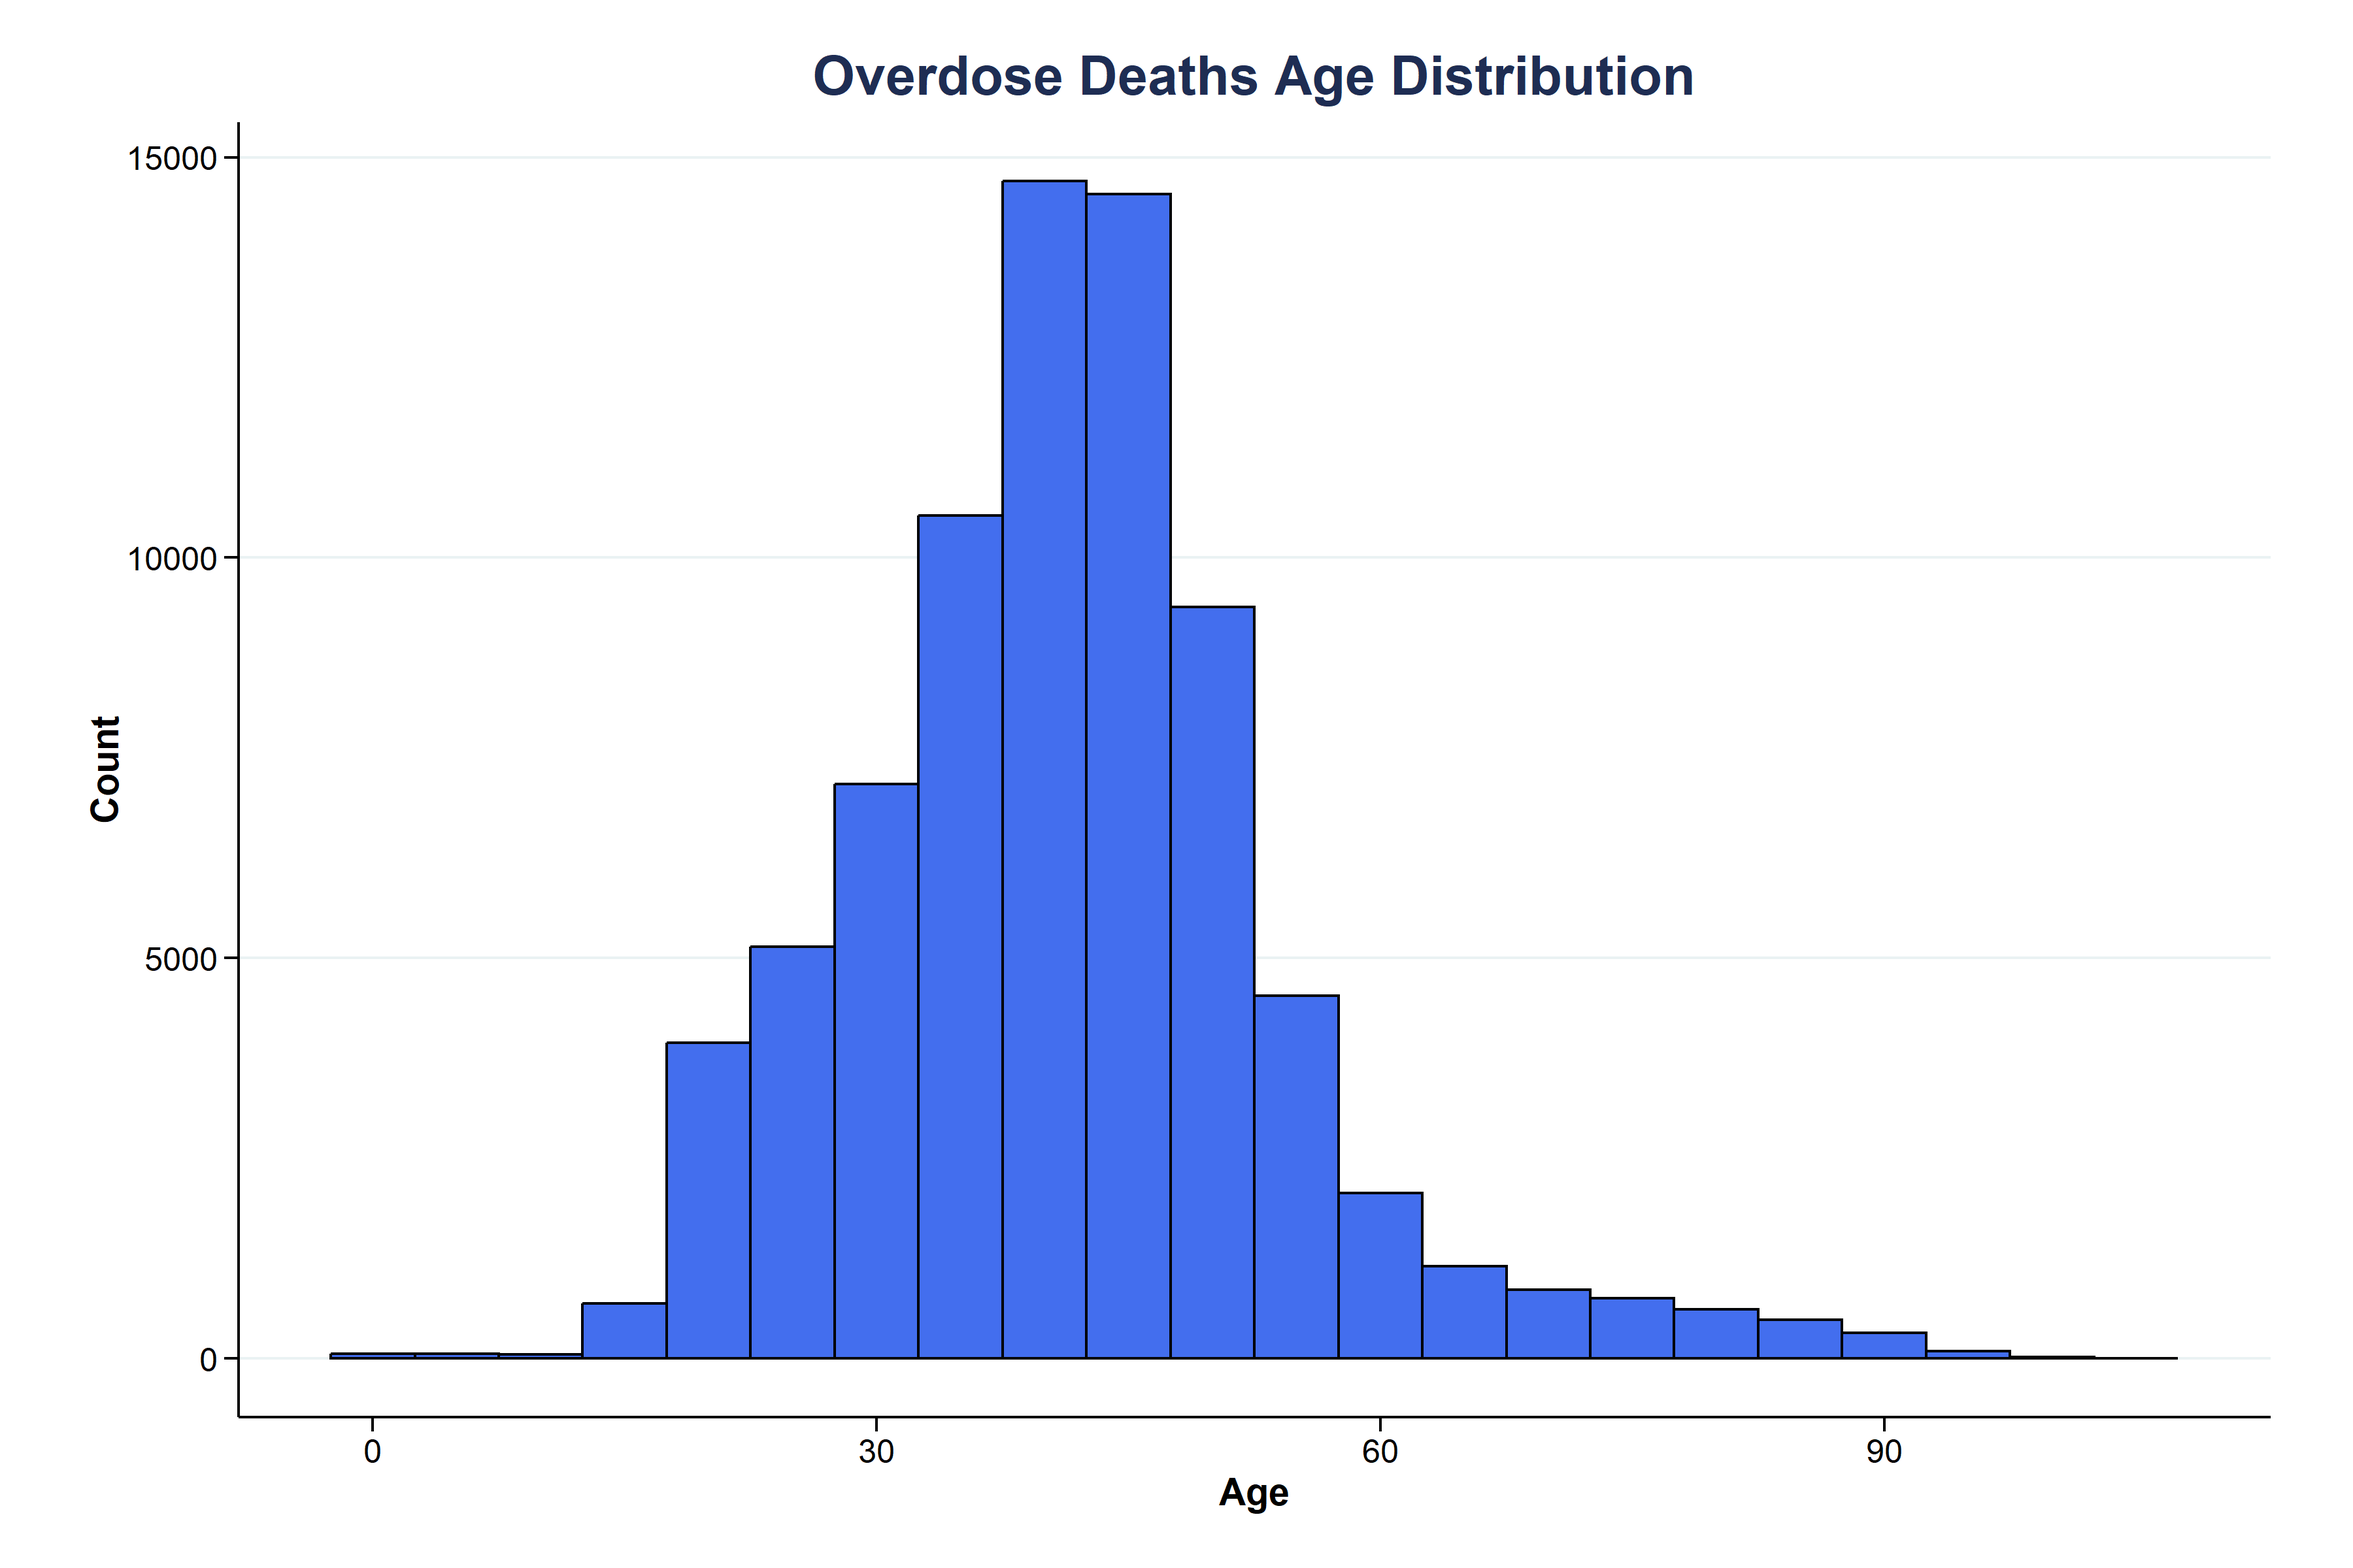
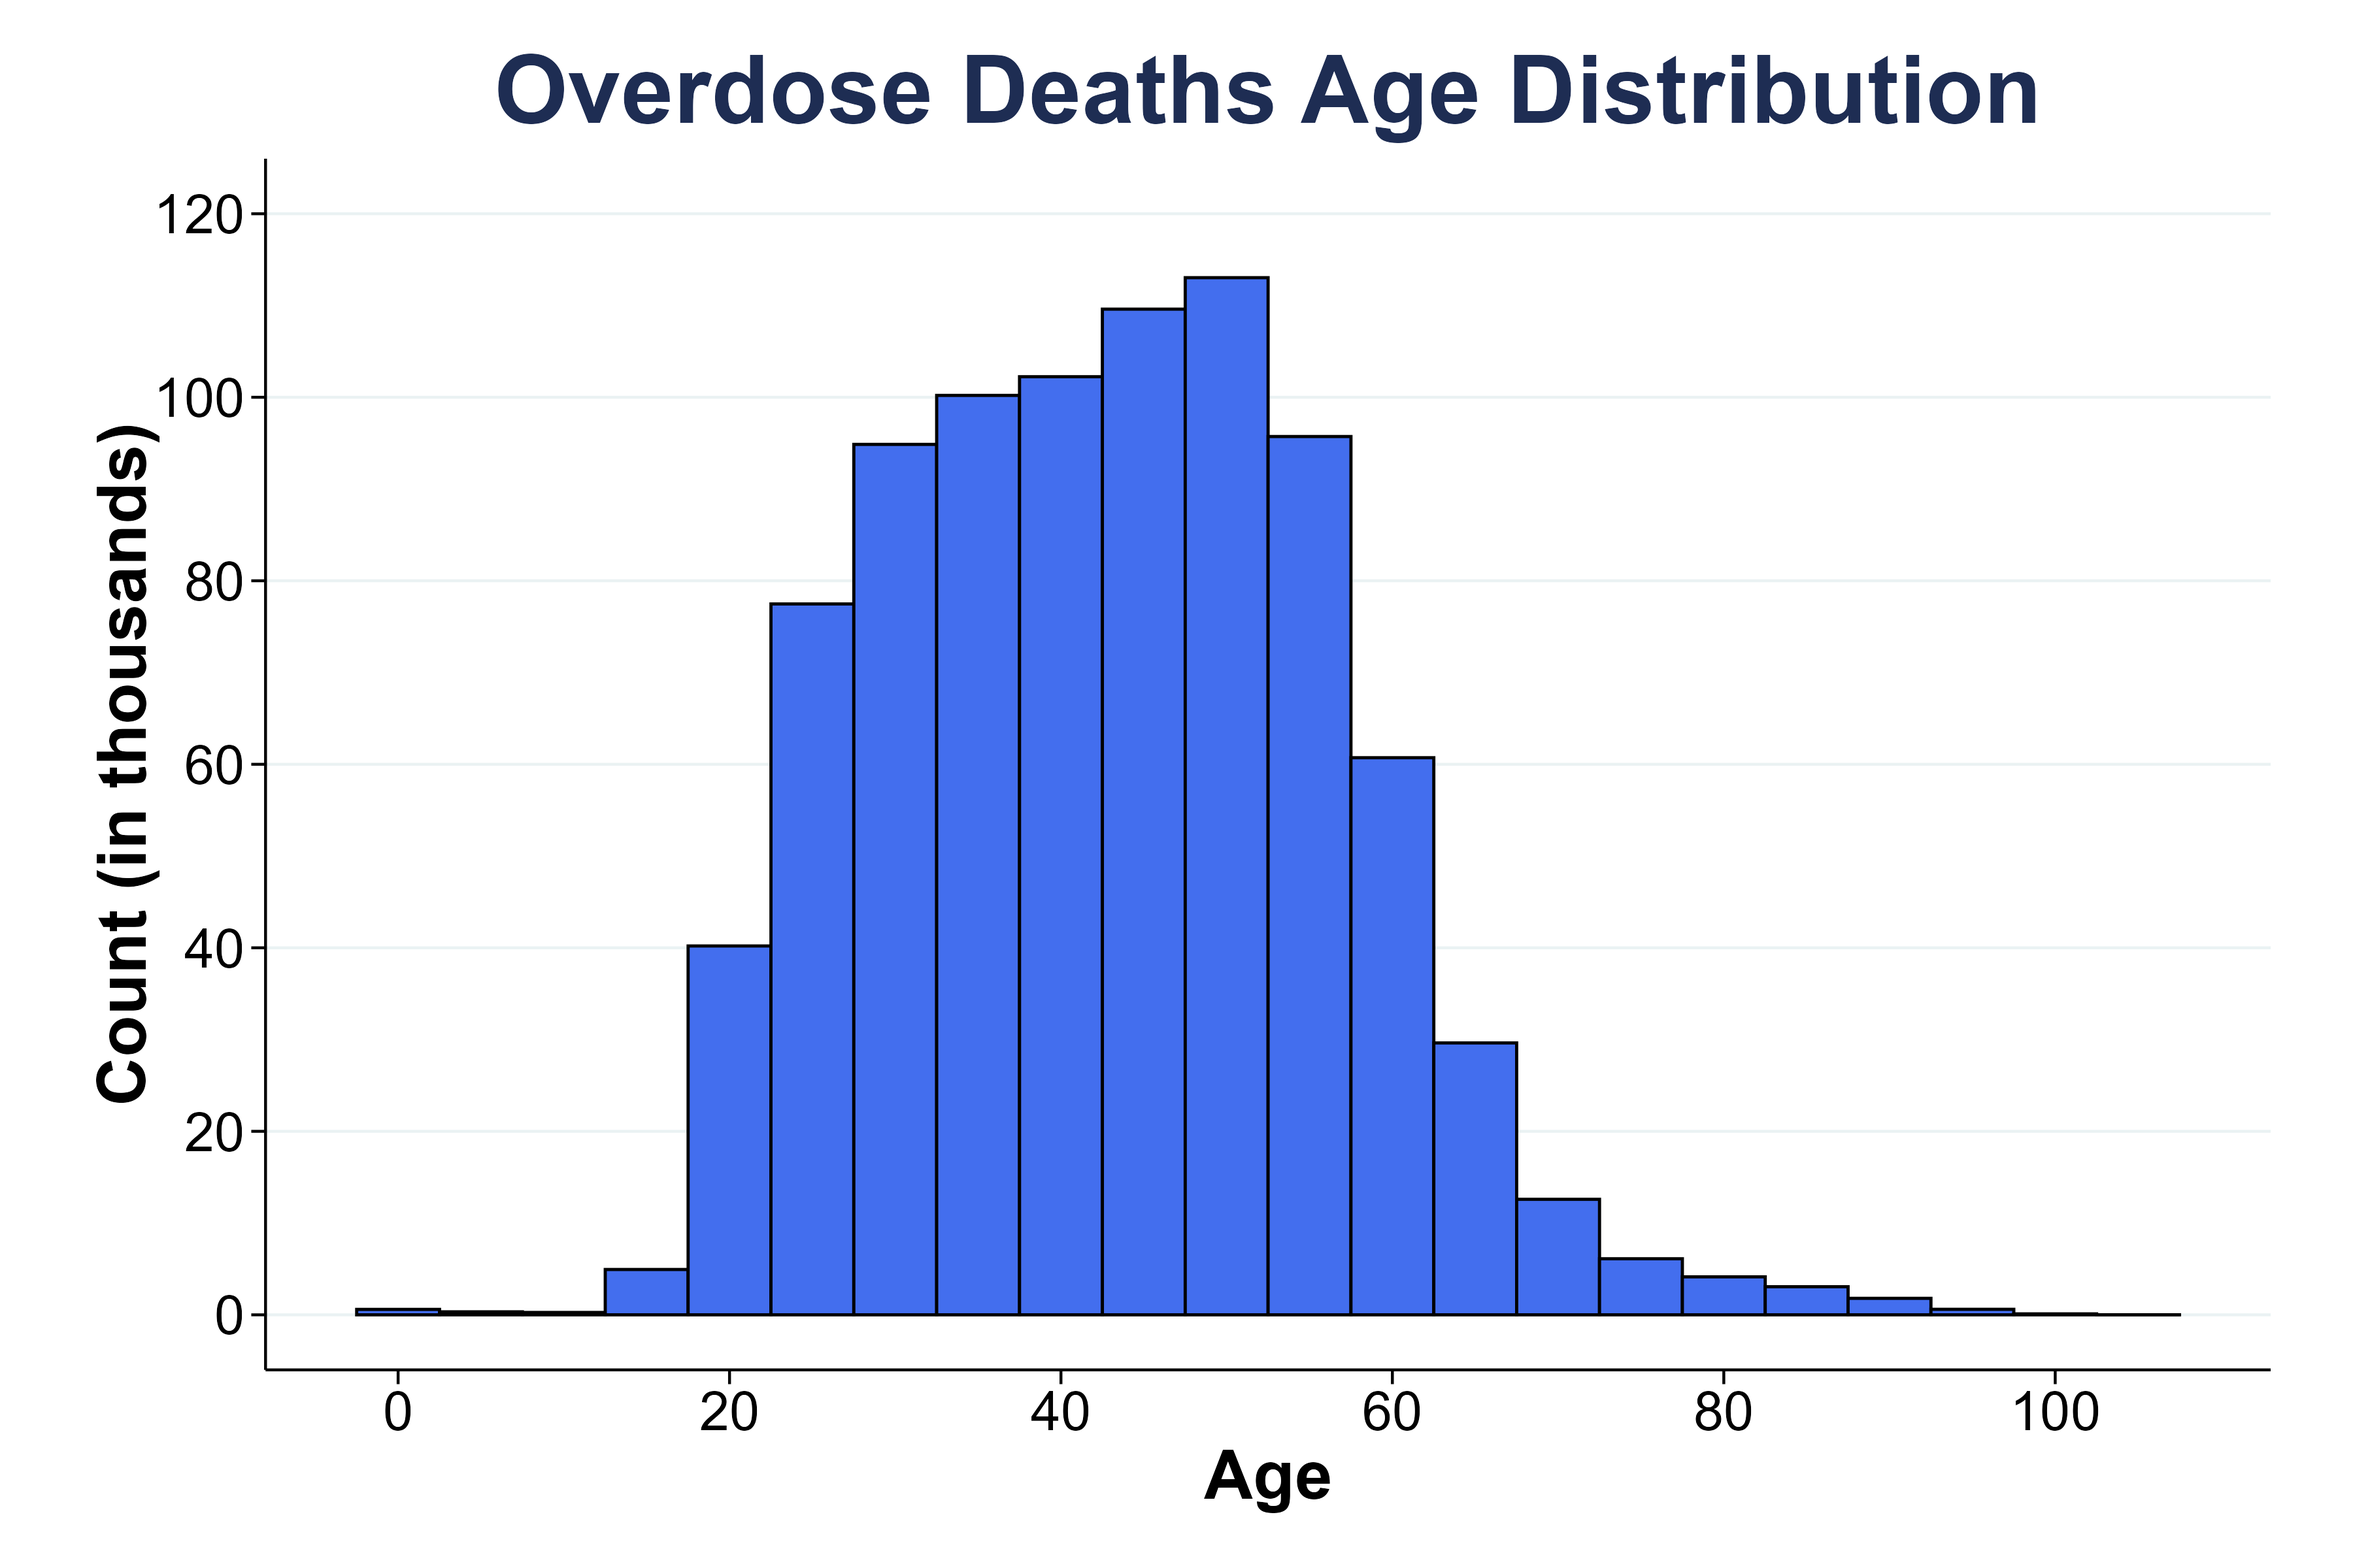
<3

diff --git a/results/results.html b/results/results.html
@@ -48,8 +48,7 @@ ul.task-list li input[type="checkbox"] {
     <h2 id="toc-title">Table of contents</h2>
    
   <ul class="collapse">
-  <li><a href="#population" id="toc-population" class="nav-link active" data-scroll-target="#population">Population</a></li>
-  <li><a href="#total-overdose-deaths-in-the-u.s.-1999-2020" id="toc-total-overdose-deaths-in-the-u.s.-1999-2020" class="nav-link" data-scroll-target="#total-overdose-deaths-in-the-u.s.-1999-2020">Total Overdose Deaths in the U.S. (1999-2020)</a></li>
+  <li><a href="#total-overdose-deaths-in-the-u.s.-1999-2020" id="toc-total-overdose-deaths-in-the-u.s.-1999-2020" class="nav-link active" data-scroll-target="#total-overdose-deaths-in-the-u.s.-1999-2020">Total Overdose Deaths in the U.S. (1999-2020)</a></li>
   <li><a href="#top-10-icd-10-codes-1999-2020" id="toc-top-10-icd-10-codes-1999-2020" class="nav-link" data-scroll-target="#top-10-icd-10-codes-1999-2020">Top 10 ICD-10 Codes (1999-2020)</a></li>
   <li><a href="#substances-of-interest" id="toc-substances-of-interest" class="nav-link" data-scroll-target="#substances-of-interest">Substances of Interest:</a></li>
   <li><a href="#polysubstance-prevalence" id="toc-polysubstance-prevalence" class="nav-link" data-scroll-target="#polysubstance-prevalence">Polysubstance Prevalence</a></li>
@@ -84,19 +83,10 @@ ul.task-list li input[type="checkbox"] {
 </header>
 
 
-<section id="population" class="level2">
-<h2 class="anchored" data-anchor-id="population">Population</h2>
-<div class="quarto-layout-panel" data-layout-ncol="2">
-<div class="quarto-layout-row">
-<div class="quarto-layout-cell" style="flex-basis: 50.0%;justify-content: flex-start;">
-<p><img src="age.png" class="img-fluid" style="width:80.0%" alt="Figure 1: Overdose Deaths Age Distribution"> <img src="sex.png" class="img-fluid" style="width:80.0%" alt="Figure 2: Overdose Deaths Sex Distribution"></p>
-</div>
-</div>
-</div>
-</section>
 <section id="total-overdose-deaths-in-the-u.s.-1999-2020" class="level2">
 <h2 class="anchored" data-anchor-id="total-overdose-deaths-in-the-u.s.-1999-2020">Total Overdose Deaths in the U.S. (1999-2020)</h2>
-<p>Overdose deaths defined by the following ICD-10 Underlying Cause of Death (UCOD) codes:</p>
+<section id="overdose-deaths-defined-by-the-following-icd-10-underlying-cause-of-death-ucod-codes" class="level6">
+<h6 class="anchored" data-anchor-id="overdose-deaths-defined-by-the-following-icd-10-underlying-cause-of-death-ucod-codes">Overdose deaths defined by the following ICD-10 Underlying Cause of Death (UCOD) codes:</h6>
 <table>
 <colgroup>
 <col style="width:20%">
@@ -147,12 +137,16 @@ Undetermined intent, Poisoning by drugs and biological substances
 </tr>
 </tbody>
 </table>
-<div class="quarto-figure quarto-figure-center">
-<figure class="figure">
-<p><img src="overdose_deaths_by_year.png" class="img-fluid figure-img" style="width:80.0%"></p>
-<figcaption>Figure 2: Total U.S. Overdose Deaths</figcaption>
-</figure>
+<p><img src="overdose_deaths_by_year.png" class="img-fluid" style="width:80.0%"></p>
+<p>n = 936,279</p>
+<div class="columns">
+<div class="column" style="width:50%;">
+<p><img src="age.png" class="img-fluid"></p>
+</div><div class="column" style="width:50%;">
+<p><img src="sex.png" class="img-fluid" style="width:100.0%"></p>
 </div>
+</div>
+</section>
 </section>
 <section id="top-10-icd-10-codes-1999-2020" class="level2">
 <h2 class="anchored" data-anchor-id="top-10-icd-10-codes-1999-2020">Top 10 ICD-10 Codes (1999-2020)</h2>
@@ -224,12 +218,7 @@ Undetermined intent, Poisoning by drugs and biological substances
 </tbody>
 </table>
 <p>This summary is not a unique number of deaths; Number of occurrences includes duplicates, for death certificates with multiple ICD-10 codes.</p>
-<div class="quarto-figure quarto-figure-center">
-<figure class="figure">
-<p><img src="topicd.png" class="img-fluid figure-img" style="width:90.0%"></p>
-<figcaption>Figure 3: Most Frequent ICD-10 Codes</figcaption>
-</figure>
-</div>
+<p><img src="topicd.png" class="img-fluid" style="width:90.0%"></p>
 </section>
 <section id="substances-of-interest" class="level2">
 <h2 class="anchored" data-anchor-id="substances-of-interest">Substances of Interest:</h2>
